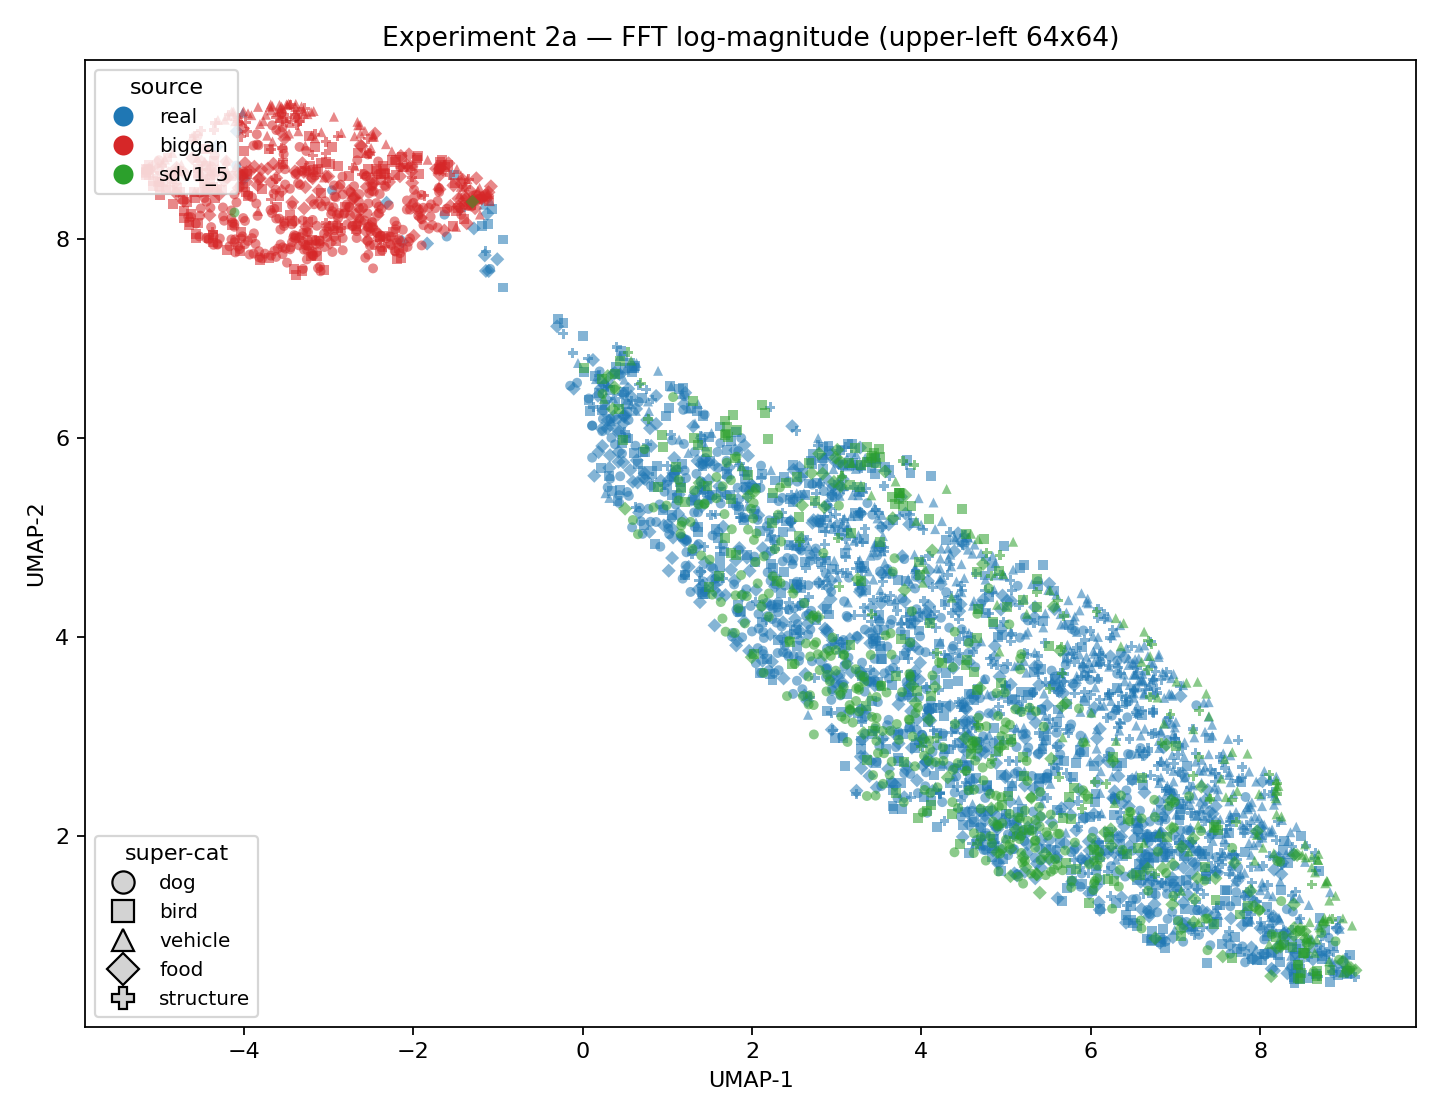
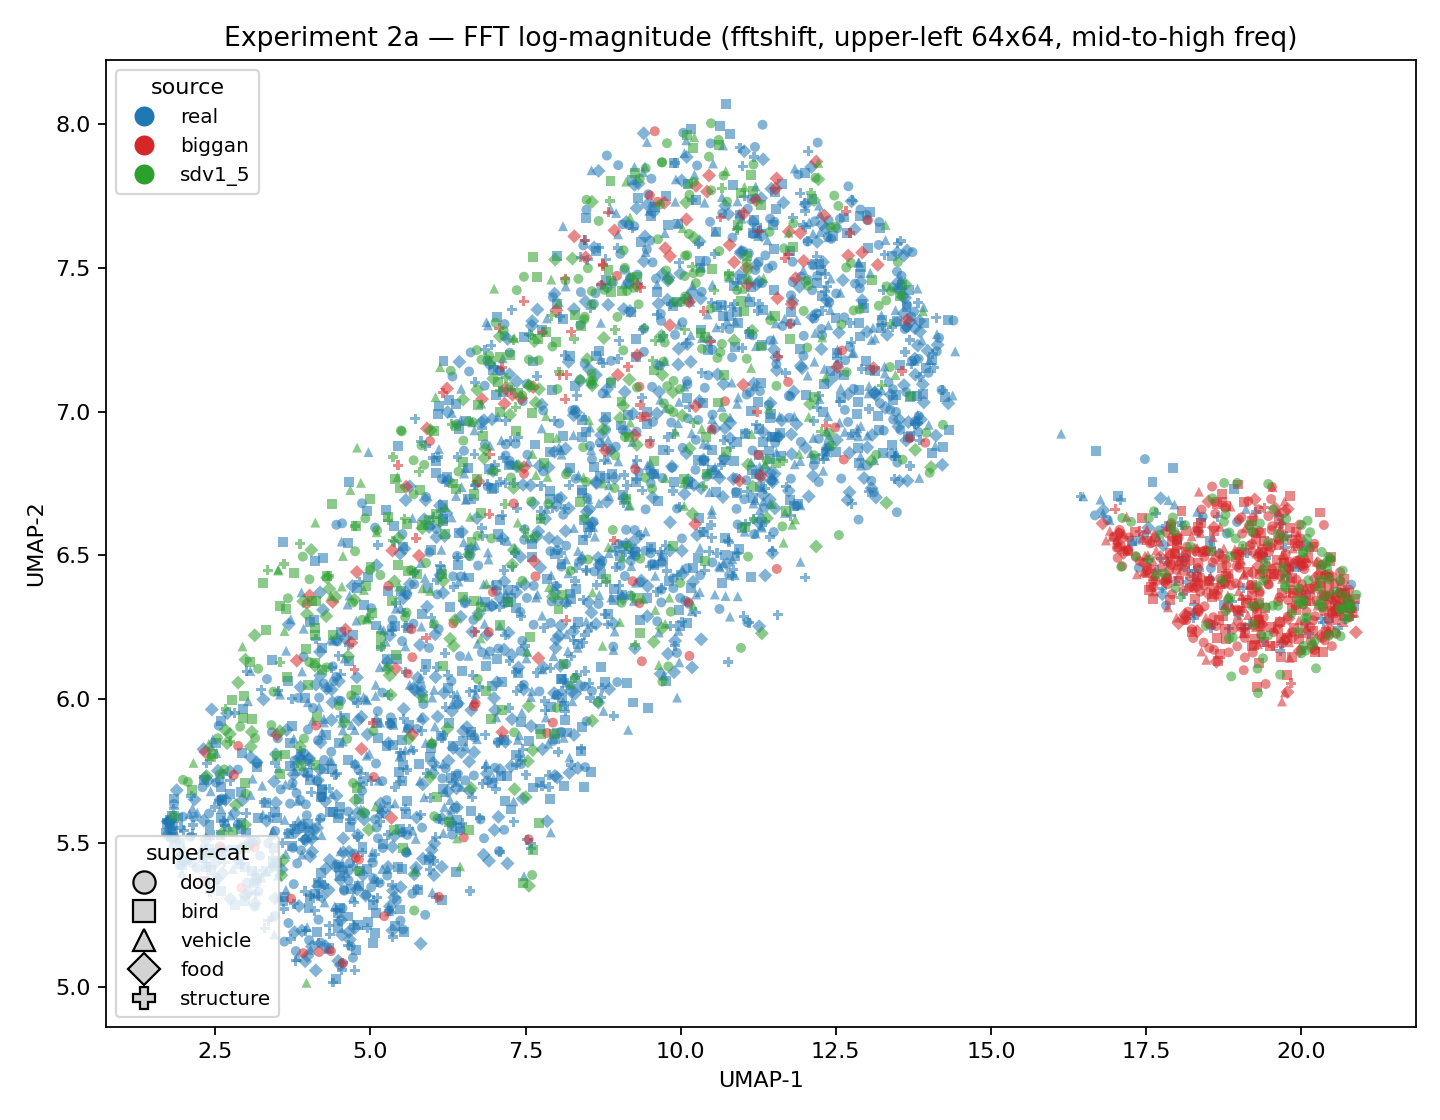
Updated after changing FFT frequency range studied

diff --git a/synthetic-images-detection/scripts/12_extract_features.py b/synthetic-images-detection/scripts/12_extract_features.py
@@ -3,15 +3,20 @@
 For each image (real / BigGAN / SDv1.5, across 5 super-cats):
 
 - CLIP ViT-B/32 image embeddings (semantic baseline, 512-d)
-- FFT log-magnitude upper-left 64x64 quadrant flattened (4096-d)
+- FFT log-magnitude: fftshift-centered spectrum, upper-left 64x64 corner
+  (captures mid-to-high frequencies where GAN/diffusion artifacts live, 4096-d)
 - SRM high-pass residuals -> PCA to 256-d (artifact / noise space)
 
 All features and labels are saved to cache/features.npz so the
 analysis step is cheap to re-run.
+
+Pass --only-fft to recompute only the FFT features and patch the existing
+features.npz in-place (CLIP and SRM are preserved as-is).
 """
 
 from __future__ import annotations
 
+import argparse
 import sys
 import time
 from pathlib import Path
@@ -105,7 +110,12 @@ def extract_clip(images: np.ndarray) -> np.ndarray:
 
 
 def extract_fft(images: np.ndarray) -> np.ndarray:
-    """Per-image: grayscale -> 2D FFT -> log mag -> upper-left FFT_QUAD x FFT_QUAD -> flatten."""
+    """Per-image: grayscale -> 2D FFT -> fftshift -> log mag -> upper-left 64x64 -> flatten.
+
+    fftshift recentres the DC component to (H/2, W/2), so the upper-left 64x64
+    corner of the shifted spectrum corresponds to the mid-to-high frequency
+    region — where GAN checkerboard and diffusion pipeline artefacts manifest.
+    """
     print(f"[fft] computing on {len(images)} images ...", flush=True)
     t0 = time.time()
     # luminance-Y as a single float32 array (N, H, W)
@@ -121,7 +131,7 @@ def extract_fft(images: np.ndarray) -> np.ndarray:
     chunk = 256
     for start in range(0, n, chunk):
         stop = min(start + chunk, n)
-        f = np.fft.fft2(gray[start:stop])
+        f = np.fft.fftshift(np.fft.fft2(gray[start:stop]))
         mag = np.log1p(np.abs(f))
         out[start:stop] = mag[:, :FFT_QUAD, :FFT_QUAD].reshape(stop - start, -1)
     print(
@@ -171,7 +181,48 @@ def extract_srm(images: np.ndarray, pca_dim: int = SRM_PCA_DIM) -> tuple[np.ndar
 
 
 def main() -> None:
+    parser = argparse.ArgumentParser()
+    parser.add_argument(
+        "--only-fft",
+        action="store_true",
+        help="Recompute only FFT features and patch the existing features.npz in-place.",
+    )
+    args = parser.parse_args()
+
     out_path = CACHE_DIR / "features.npz"
+
+    if args.only_fft:
+        if not out_path.is_file():
+            print(f"[error] {out_path} not found. Run without --only-fft first.")
+            return
+        print("[only-fft] loading existing features.npz ...", flush=True)
+        existing = np.load(out_path, allow_pickle=True)
+
+        print("[only-fft] loading manifests ...", flush=True)
+        df = load_manifests()
+
+        print(f"[only-fft] loading {len(df)} images into memory ...", flush=True)
+        t0 = time.time()
+        images = load_images(df)
+        print(f"  done in {time.time() - t0:.1f}s", flush=True)
+
+        print("[only-fft] recomputing FFT features ...", flush=True)
+        fft_feats = extract_fft(images)
+
+        np.savez_compressed(
+            out_path,
+            clip=existing["clip"],
+            fft=fft_feats,
+            srm=existing["srm"],
+            srm_norms=existing["srm_norms"],
+            source=existing["source"],
+            super_cat=existing["super_cat"],
+            class_idx=existing["class_idx"],
+            local_path=existing["local_path"],
+        )
+        print(f"[only-fft] patched {out_path}", flush=True)
+        return
+
     if out_path.is_file():
         print(f"[skip] {out_path} already exists; delete to regenerate.")
         return

diff --git a/synthetic-images-detection/scripts/13_analyze.py b/synthetic-images-detection/scripts/13_analyze.py
@@ -16,6 +16,7 @@ The five measurements per feature space, matching the execution plan:
 
 from __future__ import annotations
 
+import argparse
 import sys
 from pathlib import Path
 
@@ -191,6 +192,7 @@ def compute_metrics(feat: np.ndarray, sources: np.ndarray, cats: np.ndarray) -> 
         sil_gan_vs_diff = float("nan")
 
     return {
+        # comment: cat in general should refer to 'super-category'
         "intra (same source & cat)": intra,
         "inter biggan-vs-sdv15 (same cat)": bg_sd,
         "inter real-vs-fake (same cat)": real_fake,
@@ -202,6 +204,14 @@ def compute_metrics(feat: np.ndarray, sources: np.ndarray, cats: np.ndarray) -> 
 
 
 def main() -> None:
+    parser = argparse.ArgumentParser()
+    parser.add_argument(
+        "--only-fft",
+        action="store_true",
+        help="Recompute only FFT UMAP/metrics and patch metrics.csv in-place.",
+    )
+    args = parser.parse_args()
+
     print("[load] features.npz", flush=True)
     data = load_features()
     sources = data["source"]
@@ -212,11 +222,12 @@ def main() -> None:
         pd.crosstab(pd.Series(sources, name="source"), pd.Series(cats, name="super_cat")).to_string()
     )
 
-    spaces = [
+    all_spaces = [
         ("clip", "cosine", "Baseline 1 — Semantic (CLIP ViT-B/32)"),
-        ("fft", "euclidean", "Experiment 2a — FFT log-magnitude (upper-left 64x64)"),
+        ("fft", "euclidean", "Experiment 2a — FFT log-magnitude (fftshift, upper-left 64x64, mid-to-high freq)"),
         ("srm", "euclidean", "Experiment 2b — SRM high-pass residual (PCA-256)"),
     ]
+    spaces = [s for s in all_spaces if s[0] == "fft"] if args.only_fft else all_spaces
 
     metric_rows = []
     for key, umap_metric, title in spaces:
@@ -233,13 +244,20 @@ def main() -> None:
         for k, v in m.items():
             print(f"    {k:42s} = {v: .6f}")
 
-    df = pd.DataFrame(metric_rows)
     out_csv = RESULTS_DIR / "metrics.csv"
+    if args.only_fft and out_csv.is_file():
+        existing_df = pd.read_csv(out_csv)
+        existing_df = existing_df[existing_df["feature_space"] != "fft"]
+        df = pd.concat([existing_df, pd.DataFrame(metric_rows)], ignore_index=True)
+    else:
+        df = pd.DataFrame(metric_rows)
+
     df.to_csv(out_csv, index=False)
     print(f"\n[done] wrote {out_csv}")
 
+    present = [k for k, _, _ in all_spaces if k in df["feature_space"].values]
     pivot = df.pivot(index="measurement", columns="feature_space", values="value")
-    pivot = pivot[["clip", "fft", "srm"]]
+    pivot = pivot[[c for c in ["clip", "fft", "srm"] if c in pivot.columns]]
     print("\n=== summary table ===")
     print(pivot.to_string(float_format=lambda x: f"{x: .4f}"))
     pivot.to_csv(RESULTS_DIR / "metrics_pivot.csv")

diff --git a/synthetic-images-detection/writeup.md b/synthetic-images-detection/writeup.md
@@ -4,7 +4,7 @@
 Do generation methods share a common artifact signature that is consistently separable from the artifact space of real camera pipelines? Is synthetic image content sufficiently homogeneous across generation methods to be treated as a single detectable class?
 
 ## 💭 Thought Process
-I was reading a paper that did a comparative benchmark analysis between different detection methods and the goal was to show that generalization across different synthetic mechanisms (difussion and GAN in this case) was still very low. Initially, I agreed with this being an open problem but then I further thought about it: are we actually tackling something that should be thought of as a "single class"? Yes, for us, "fake" and "real" has a very clear definition in the sense that people taking pictures from the "real world" can be considered as real. But these are no more than pixels obtained via a camera lens. How do we identify properly all the potential marks from this "real class" that we can find? is this possible?
+I was reading a paper on a comparative benchmark analysis between generated-images detection methods where they intended to show that generalization across different synthetic mechanisms (difussion and GAN in this case) was still very low. Initially, I agreed with this being an open problem but then I further thought about it: are we actually tackling something that should be thought of as a "single class"? For us, "fake" and "real" has a very clear definition in the sense that people taking pictures from the "real world" can be considered as real. But these are no more than pixels obtained via camera. How do we identify properly all the potential marks from this "real class" that we can find? is this possible?
 
 ## 🔲 Simplifications & Assumptions
 - **Modalities dropped**: scope is images only; other modalities (audio, text, video) were set aside as they complicate the problem independently
@@ -23,12 +23,12 @@ I was reading a paper that did a comparative benchmark analysis between differen
 
 | Step | Feature extractor | Purpose |
 |---|---|---|
-| Baseline 1 | CLIP / DINO | Semantic embeddings — confirms fakes cluster by content |
-| Exp. 2a | FFT magnitude spectrum | Artifact-sensitive — frequency pipeline traces |
-| Exp. 2b | Noise residuals (e.g. SRM filter) | Artifact-sensitive — pipeline noise traces |
+| Baseline 1 | CLIP | Semantic embeddings, to confirm that fakes cluster by content |
+| Exp. 2a | FFT magnitude spectrum (fftshift, mid-to-high freq) | Artifact-sensitive; to study frequency pipeline traces |
+| Exp. 2b | Noise residuals (e.g. SRM filter) | Artifact-sensitive; to study pipeline noise traces |
 
 ### Baselines
-- **Baseline 1 (semantic)**: UMAP on CLIP/DINO features. Expected: fakes cluster by content near real images of same category. Confirms distributional overlap and motivates artifact approach.
+- **Baseline 1 (semantic)**: UMAP on CLIP features. Expected: fakes cluster by content near real images of same category. Confirms distributional overlap and motivates artifact approach.
 - **Baseline 2 (same-pipeline reference)**: In artifact feature space, compute pairwise distances across N real categories. Different content, same camera pipeline → should yield **small** distances. Establishes the reference for "same kind of pipeline."
 
 ### Experiments 2a / 2b
@@ -64,18 +64,12 @@ Mean pairwise L2 distance per feature space (see `results/metrics.csv`):
 
 | measurement | CLIP | FFT | SRM |
 |---|---:|---:|---:|
-| intra (same source & cat) | 0.84 | 57.6 | 3.36 |
-| BigGAN vs SDv1.5 (same cat) | 0.86 | **78.8** | 2.86 |
-| real vs fake (same cat) | 0.88 | 67.9 | 3.95 |
-| real-cat A vs real-cat B | **1.03** | 61.2 | **5.10** |
+| intra (same source & super-category) | 0.84 | 42.26 | 3.36 |
+| BigGAN vs SDv1.5 (same super-category) | 0.86 | **57.15** | 2.86 |
+| real vs fake (same super-category) | 0.88 | 53.11 | 3.95 |
+| real-super-category A vs real-super-category B | **1.03** | 47.72 | **5.10** |
 
-Silhouette scores per feature space (see `results/metrics.csv`):
-
-| measurement | CLIP | FFT | SRM |
-|---|---:|---:|---:|
-| real vs fake | 0.01 | 0.06 | -0.06 |
-| GAN vs diffusion (fakes only) | 0.04 | **0.25** | 0.17 |
-| 3-class (real/GAN/diff) | -0.01 | 0.03 | -0.32 |
+The first row shows a baseline of the average spread inside one homogeneous super-category for a source (three sources × five super-categories). 
 
 ### What the UMAPs show
 
@@ -89,3 +83,18 @@ Silhouette scores per feature space (see `results/metrics.csv`):
 
 ## 🔎 Final Comments
 
+From the UMAP visualizations we can see that these artifact feature spaces are no good to discern generated pipelines from "real images" capturing pipelines. SRM has total overlap and FFT shows overlap between diffusion generated images and images from ImageNet.
+
+If we analyze mean L2 pairwise distances, we can see that the semantic distinction is not a good approach. The distributional shift approach here it is not a good first start for distinguishing synthetic vs. camera captured, meaning that Baseline 1 gave intended results.
+
+In terms of experiments 2a and 2b, the biggest distancance in terms of FFT is the one between synthetic mechanisms, which could indicate that synthetc single class approach might not be feasible. On the other hand, SRM shows that biggest distance is actually between super-categories, supporting the mentioned conclusion.
+
+It is a tiny indication that synthetic footprints might be more complex than a single "generated" label and that we would likely face a mouse-and-rat race, similar to anything related to security.
+
+In terms of limitations that should be overcome to strengthen this tiny experiment, we can mention the following:
+- Upon random visual inspection the images, it is possible to see that GAN generated ones are far lower quality than the ones produced with the diffusion model and they can't be considered state of the art. This is a big flaw.
+- Only two synthetic mechanisms analyzed.
+- Only two artifact spaces anaylzed. Requires better understanding of the possible approaches here.
+- No specific information on diveristy of "real" camera pipelines.
+
+As an experiment poking a question, it got a bit big in terms of things being evaluated.